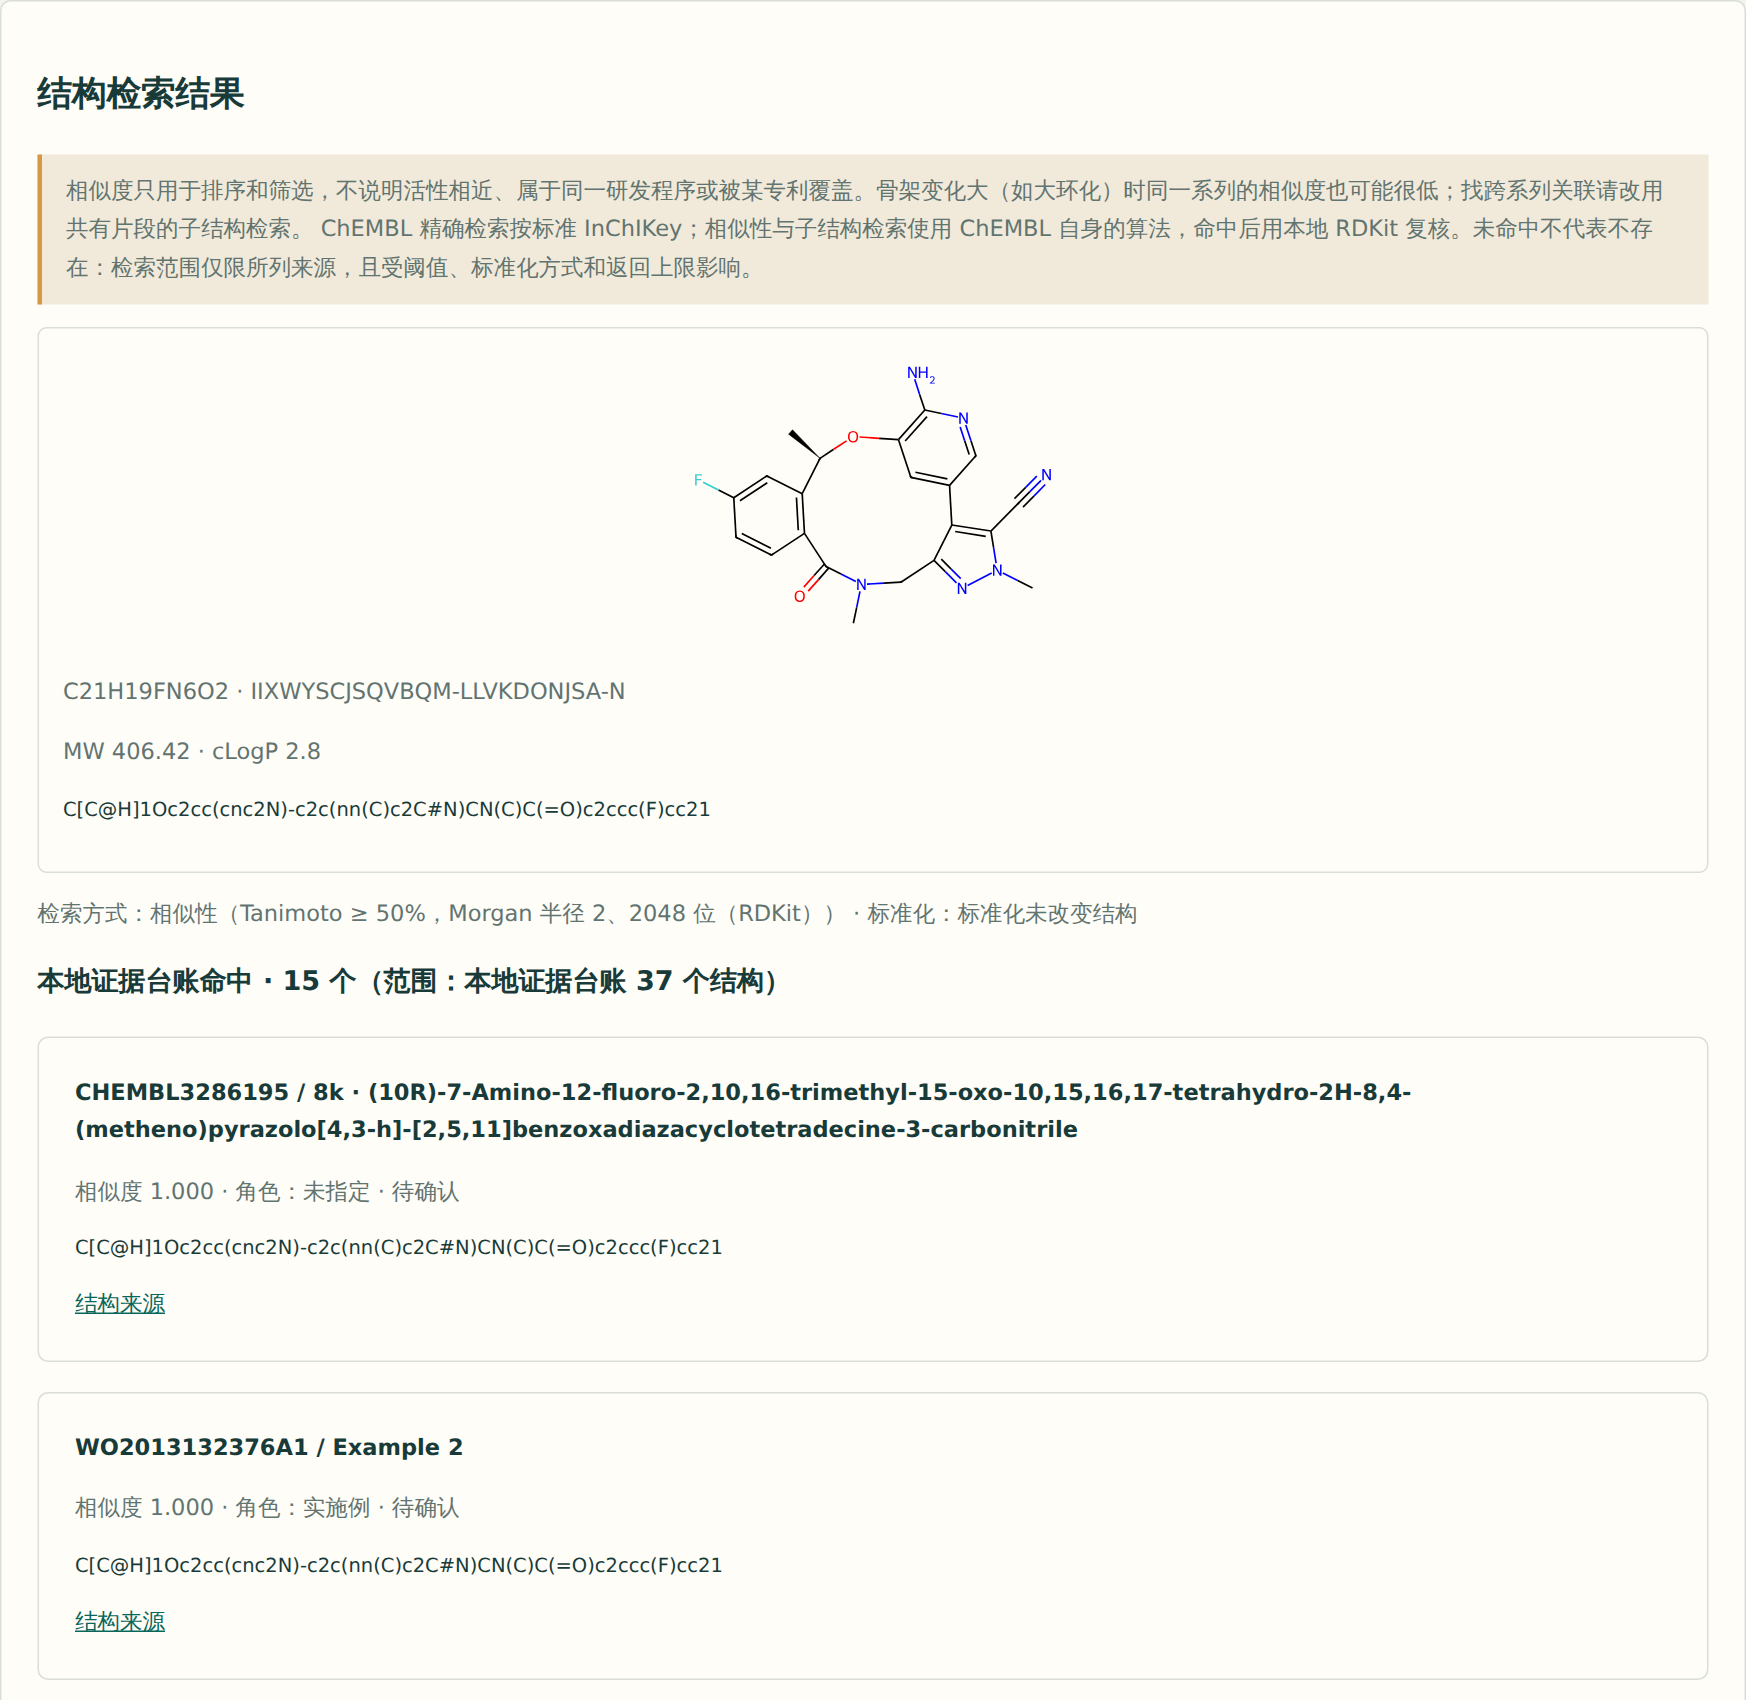
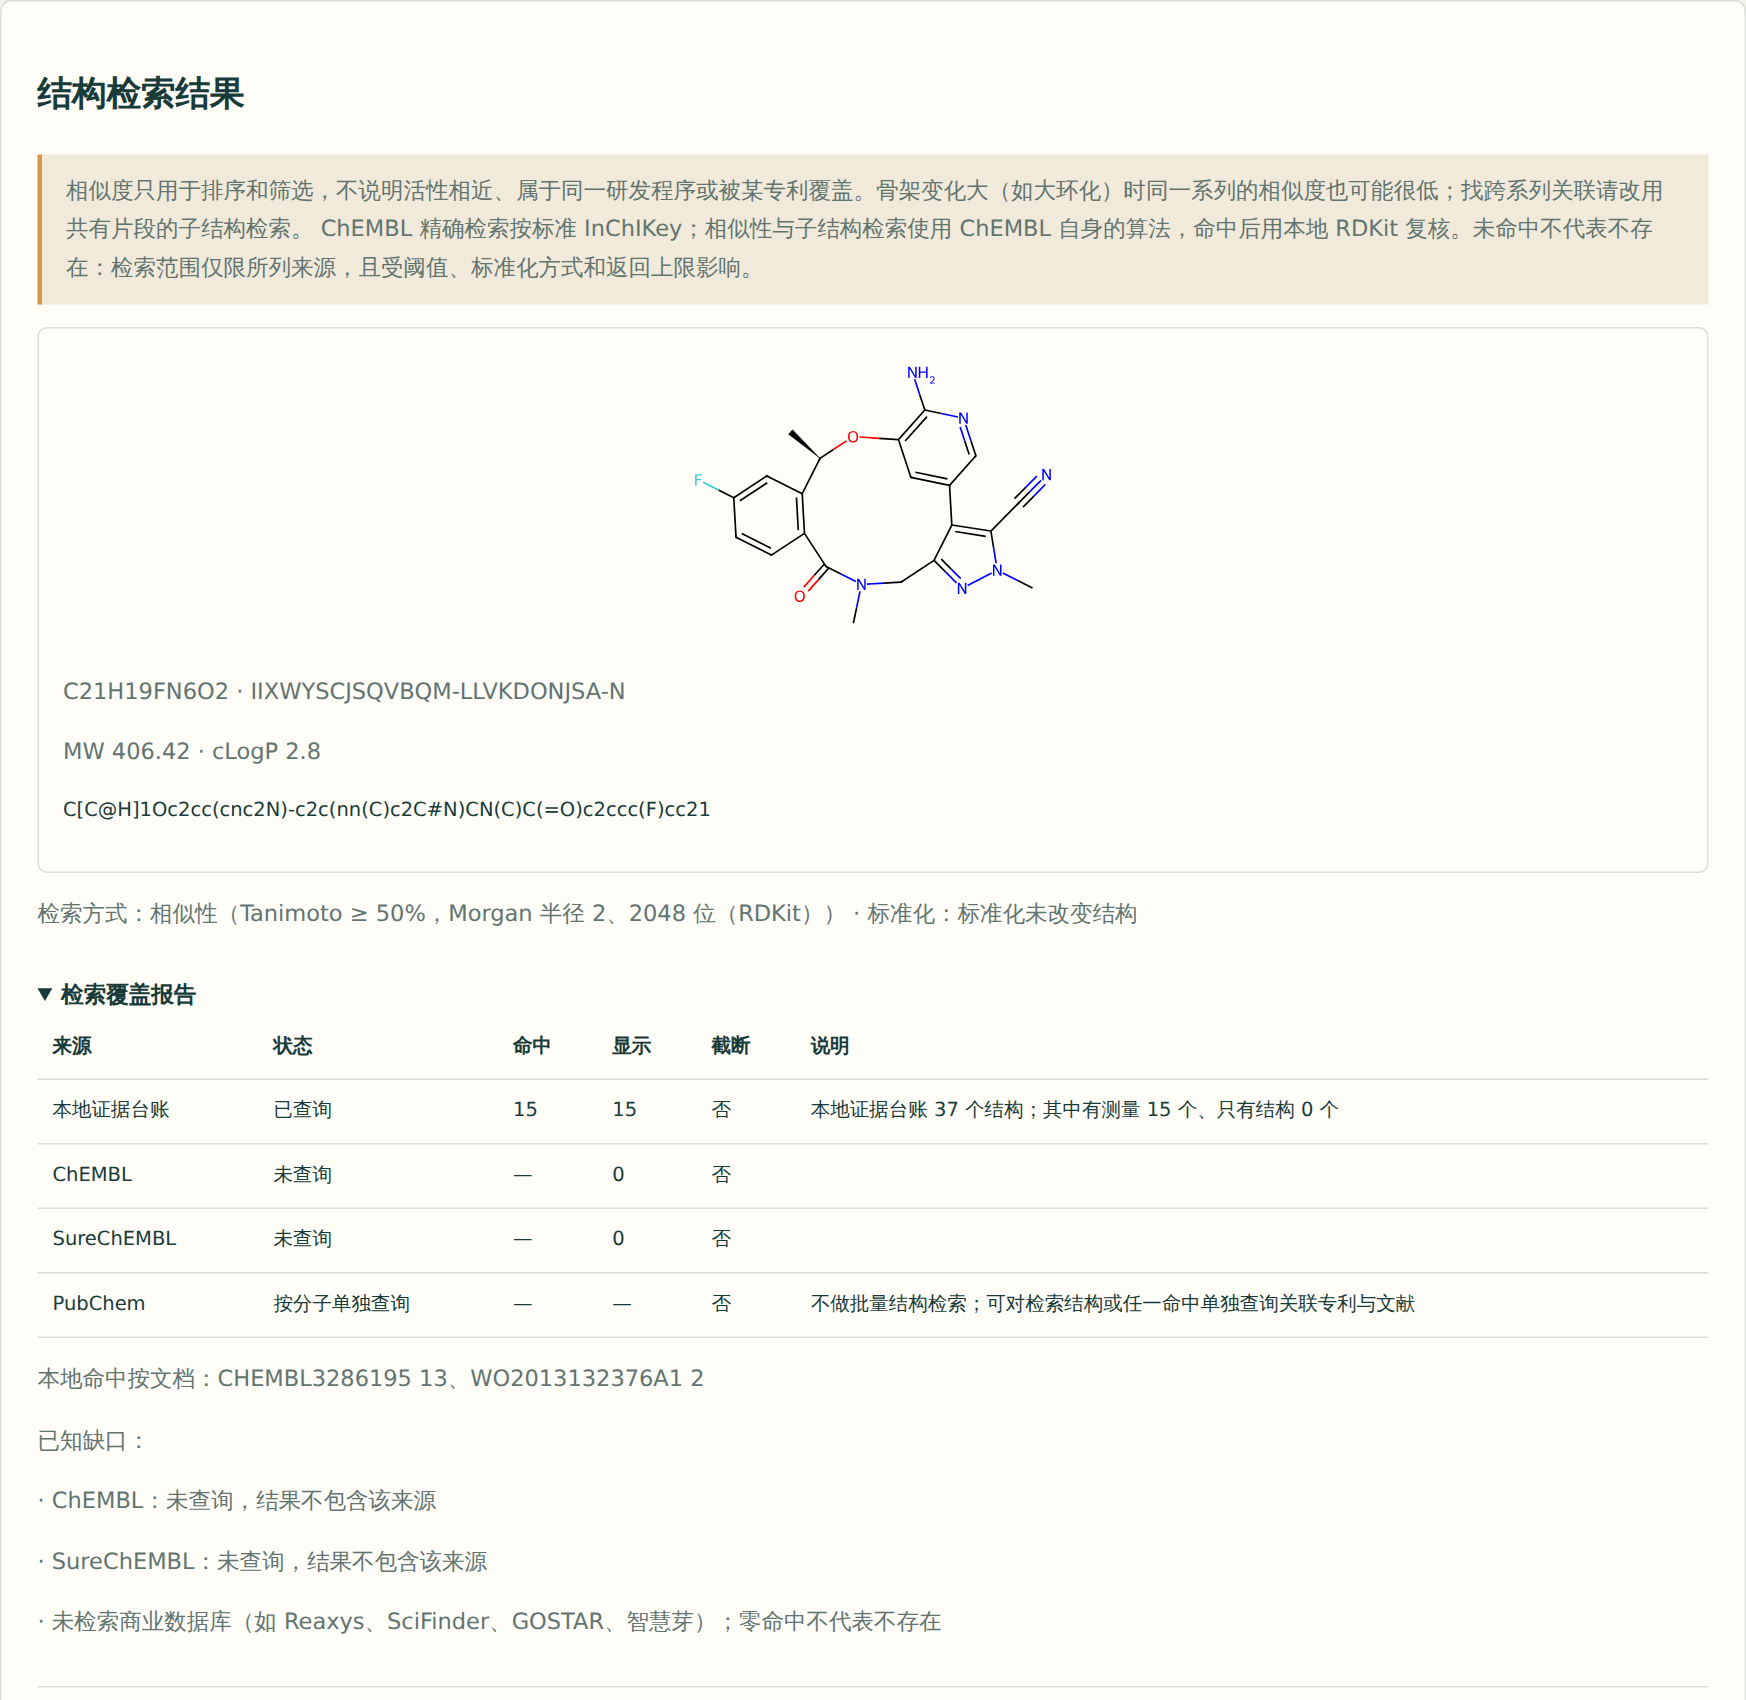
Capture /project screenshots for demo scenario 7
Extend capture.py with the goal-driven SAR walkthrough (ALK focus,
efflux target range <= 2.5) and regenerate all shots; s4 now shows
the coverage panel.

Claude-Session: https://claude.ai/code/session_01U5keqbjRX9jJ7cytWwXxdf

diff --git a/docs/demo-scenarios/capture.py b/docs/demo-scenarios/capture.py
@@ -171,6 +171,26 @@ def workbench(b, base):
     pg.wait_for_function('t => document.querySelector("#sar-suggestions").textContent !== t', arg=before)
     pg.wait_for_selector('#sar-suggestions h3')
     shot(pg.locator('#sar-suggestions'), 's3-5-suggest-other', 1400)
+
+    # 7 project goal: multi-property SAR over automatic matched pairs
+    pg.goto(base + '/project')
+    pg.wait_for_selector('#template option', state='attached')
+    pg.fill('#focus', 'ALK')
+    pg.click('#suggest')
+    efflux = pg.locator('.prop[data-id="efflux"]')
+    efflux.wait_for()
+    shot(pg.locator('#goal'), 's7-1-goal', 700)
+    shot(efflux, 's7-2-mapping-efflux', 900)
+    efflux.locator('.direction').select_option('range')
+    efflux.locator('.range-high').fill('2.5')
+    pg.click('#analyse')
+    card = pg.locator('.tf[data-transform="C[*:1]>>[H][*:1]"]')
+    card.wait_for(timeout=20000)
+    shot(pg.locator('#followups'), 's7-3-followups', 1200)
+    card.locator('details summary').last.click()
+    shot(card, 's7-4-tradeoff', 2400)
+    pg.select_option('#group-by', 'site')
+    shot(pg.locator('.tf[data-site="ccc([*:1])cn"]'), 's7-5-site', 1100)
     pg.close()
     if errors:
         sys.exit(f'页面脚本错误：{errors}')
